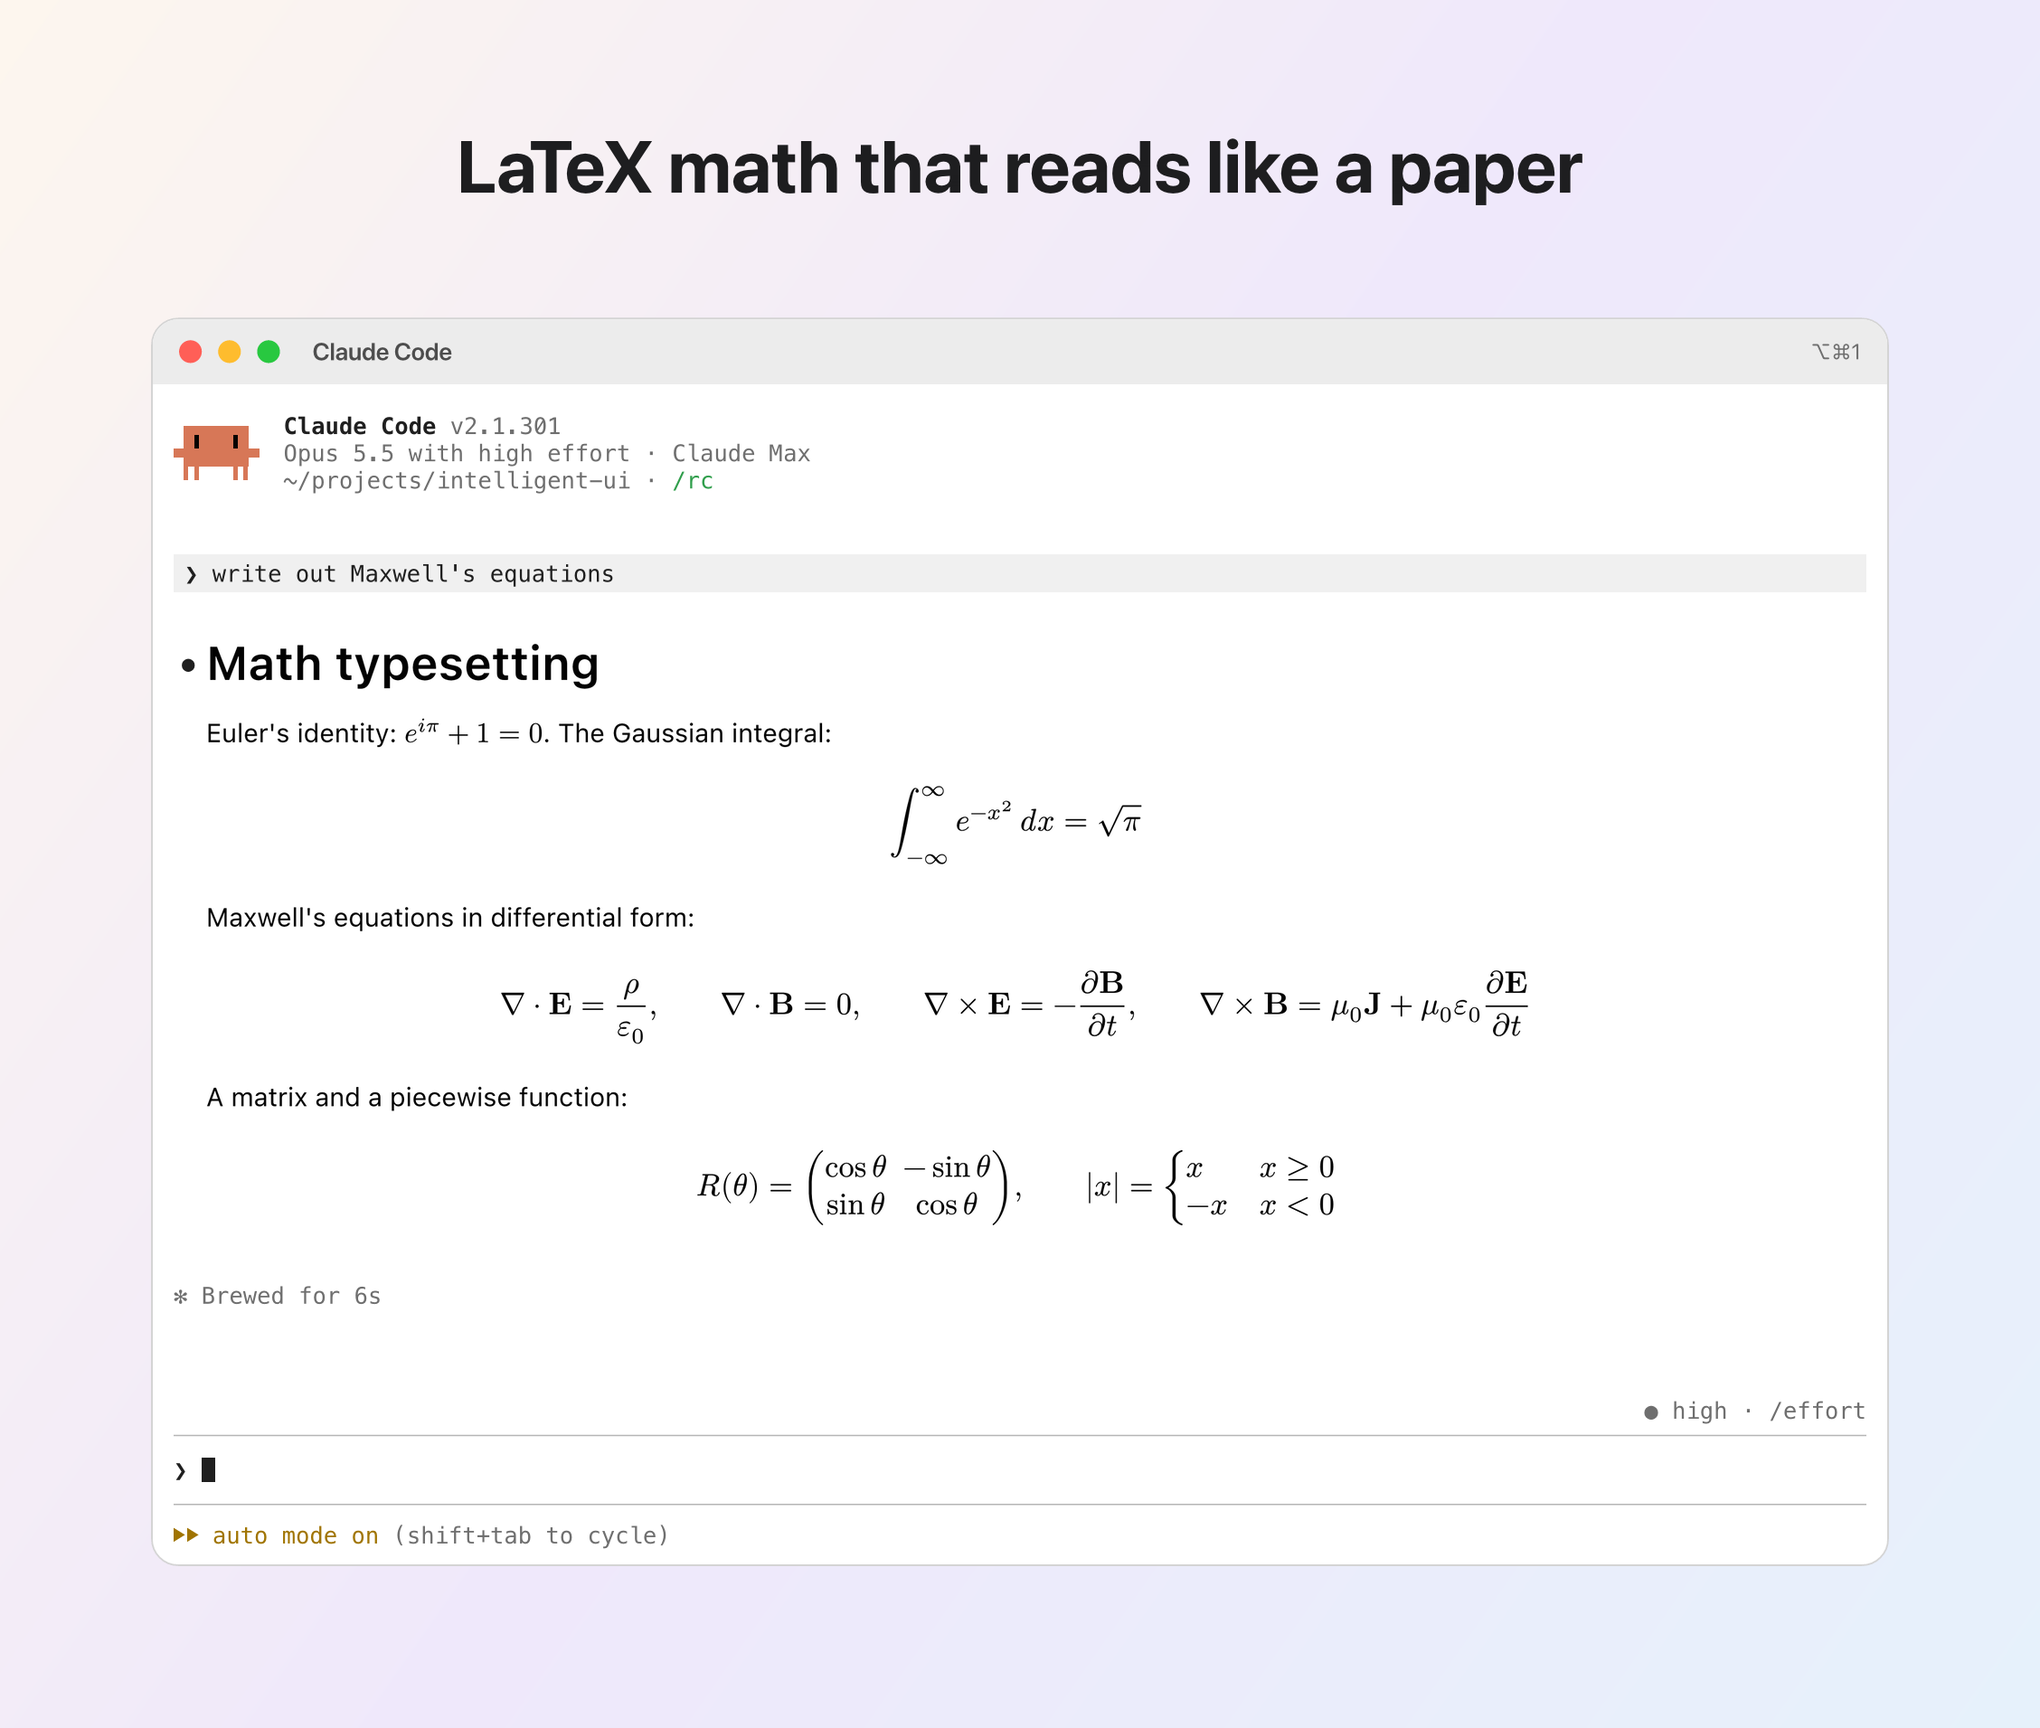
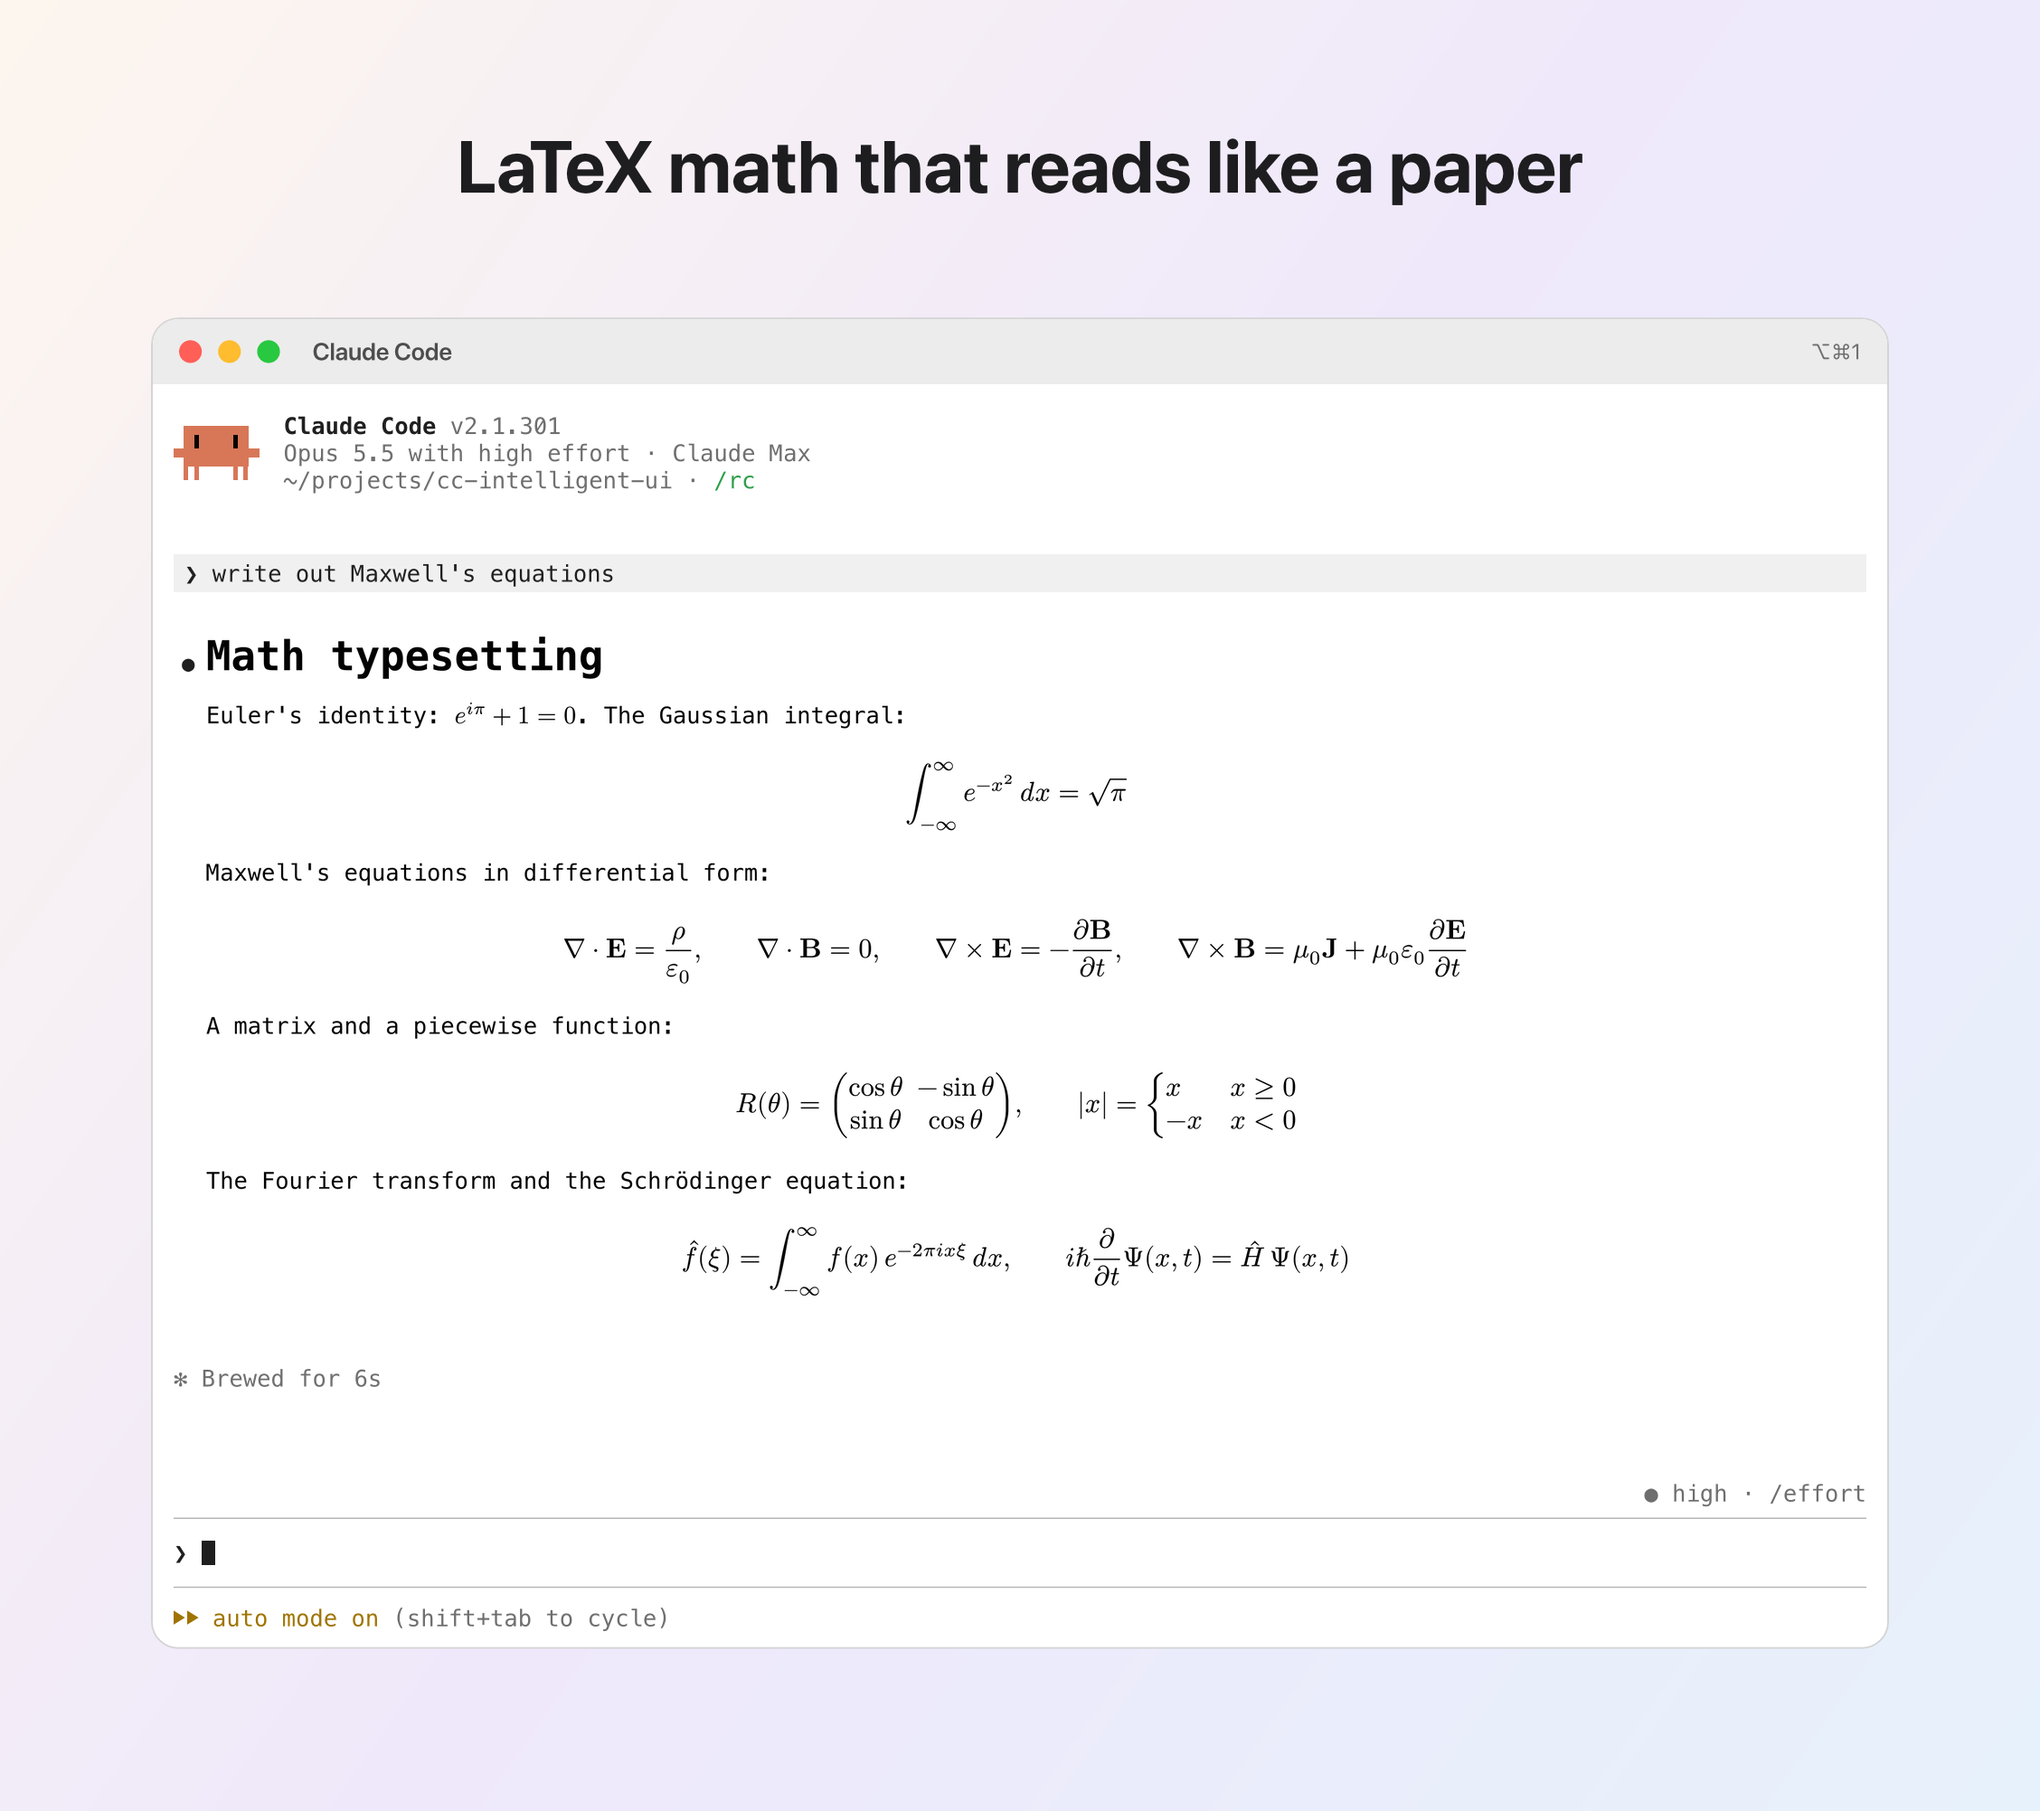
Gallery: one height for the math and diagrams pair and the site's cards
- 2-math: one more line (the Fourier transform and the Schrodinger equation)
- frame.typ: a pad above the status line; the README pair has one height
- Site: all six gallery cards have the tallest card's height
- outcomes/out made again with the current template (terminal font, folder
  name, code block header); the hero GIF cut is now 0.85

Claude-Session: https://claude.ai/code/session_01HW4izzLPGfP3ffx7zPkvHU

diff --git a/site/index.html b/site/index.html
@@ -206,8 +206,12 @@
   /* ---------- Gallery ---------- */
   .gallery { padding: clamp(96px, 14vw, 160px) 0 40px; }
   .gallery .kicker { text-align: center; margin: 0 0 44px; font: italic 400 clamp(30px, 4vw, 44px)/1 var(--serif); color: var(--muted); }
-  .grid { display: grid; grid-template-columns: repeat(auto-fit, minmax(min(100%, 400px), 1fr)); gap: 32px 28px; align-items: start; }
-  .card { margin: 0; }
+  /* All the cards have one height (the tallest's); a shorter answer leaves room under it, as a terminal does. */
+  .grid { display: grid; grid-template-columns: repeat(auto-fit, minmax(min(100%, 400px), 1fr)); grid-auto-rows: 1fr; gap: 32px 28px; }
+  .card { margin: 0; display: flex; flex-direction: column; }
+  .card > .t-wrap { flex: 1; display: flex; flex-direction: column; }
+  .card .term { flex: 1; display: flex; flex-direction: column; }
+  .card .t-body { flex: 1; }
   .card figcaption {
     margin-top: 12px; display: flex; justify-content: space-between; align-items: center; gap: 12px;
     font: 500 12px/1 var(--mono); letter-spacing: 0.05em; text-transform: uppercase; color: var(--muted);
@@ -289,7 +293,7 @@
   </div>
 </footer>
 
-<script src="assets/answers.js?v=79feb452"></script>
+<script src="assets/answers.js?v=c207e323"></script>
 <script>
 (() => {
   const answers = window.IUI_ANSWERS;

diff --git a/site/assets/answers.js b/site/assets/answers.js
@@ -6,9 +6,9 @@ window.IUI_ANSWERS = [
   "label": "Markdown",
   "ask": "show me what Markdown you can draw",
   "brew": 6,
-  "v": "73f9e536",
+  "v": "2d3feb58",
   "frame": 600,
-  "ratio": 0.94563,
+  "ratio": 0.96625,
   "bullet": 0.00847
  },
  {
@@ -50,9 +50,9 @@ window.IUI_ANSWERS = [
   "label": "LaTeX math",
   "ask": "write out Maxwell's equations",
   "brew": 3,
-  "v": "960ea72a",
+  "v": "b81fd5bb",
   "frame": 600,
-  "ratio": 0.31833,
+  "ratio": 0.415,
   "bullet": 0.02542
  },
  {

diff --git a/docs/gallery.md b/docs/gallery.md
@@ -24,12 +24,12 @@ Headings, an image, a table, inline math, a code block with syntax colours, a ta
 
 ## LaTeX math that reads like a paper
 
-Euler's identity, the Gaussian integral, Maxwell's equations, a matrix and a piecewise function.
+Euler's identity, the Gaussian integral, Maxwell's equations, a matrix, a piecewise function, the Fourier transform and the Schrödinger equation.
 
 <picture>
   <source media="(prefers-color-scheme: dark)" srcset="../outcomes/out/2-math-dark.png">
   <source media="(prefers-color-scheme: light)" srcset="../outcomes/out/2-math-light.png">
-  <img alt="Typeset LaTeX math in Claude Code: the Gaussian integral, Maxwell's equations, a rotation matrix and a piecewise function" src="../outcomes/out/2-math-light.png" width="800">
+  <img alt="Typeset LaTeX math in Claude Code: the Gaussian integral, Maxwell's equations, a rotation matrix, a piecewise function, the Fourier transform and the Schrödinger equation" src="../outcomes/out/2-math-light.png" width="800">
 </picture>
 
 ## A fractal, calculated as it draws

diff --git a/README.md b/README.md
@@ -75,7 +75,7 @@ In other terminals, the mod shows the normal text. Refer to [Install](docs/insta
       <picture>
         <source media="(prefers-color-scheme: dark)" srcset="outcomes/out/2-math-dark.png">
         <source media="(prefers-color-scheme: light)" srcset="outcomes/out/2-math-light.png">
-        <img alt="Typeset LaTeX math in Claude Code: the Gaussian integral, Maxwell's equations, a rotation matrix and a piecewise function" src="outcomes/out/2-math-light.png" width="100%">
+        <img alt="Typeset LaTeX math in Claude Code: the Gaussian integral, Maxwell's equations, a rotation matrix, a piecewise function, the Fourier transform and the Schrödinger equation" src="outcomes/out/2-math-light.png" width="100%">
       </picture>
     </td>
   </tr>

diff --git a/outcomes/samples/2-math.md b/outcomes/samples/2-math.md
@@ -20,3 +20,11 @@ R(\theta) = \begin{pmatrix} \cos\theta & -\sin\theta \\ \sin\theta & \cos\theta 
 \qquad
 \lvert x \rvert = \begin{cases} x & x \ge 0 \\ -x & x < 0 \end{cases}
 $$
+
+The Fourier transform and the Schrödinger equation:
+
+$$
+\hat{f}(\xi) = \int_{-\infty}^{\infty} f(x)\, e^{-2\pi i x \xi}\,dx,
+\qquad
+i\hbar \frac{\partial}{\partial t} \Psi(x, t) = \hat{H}\, \Psi(x, t)
+$$
